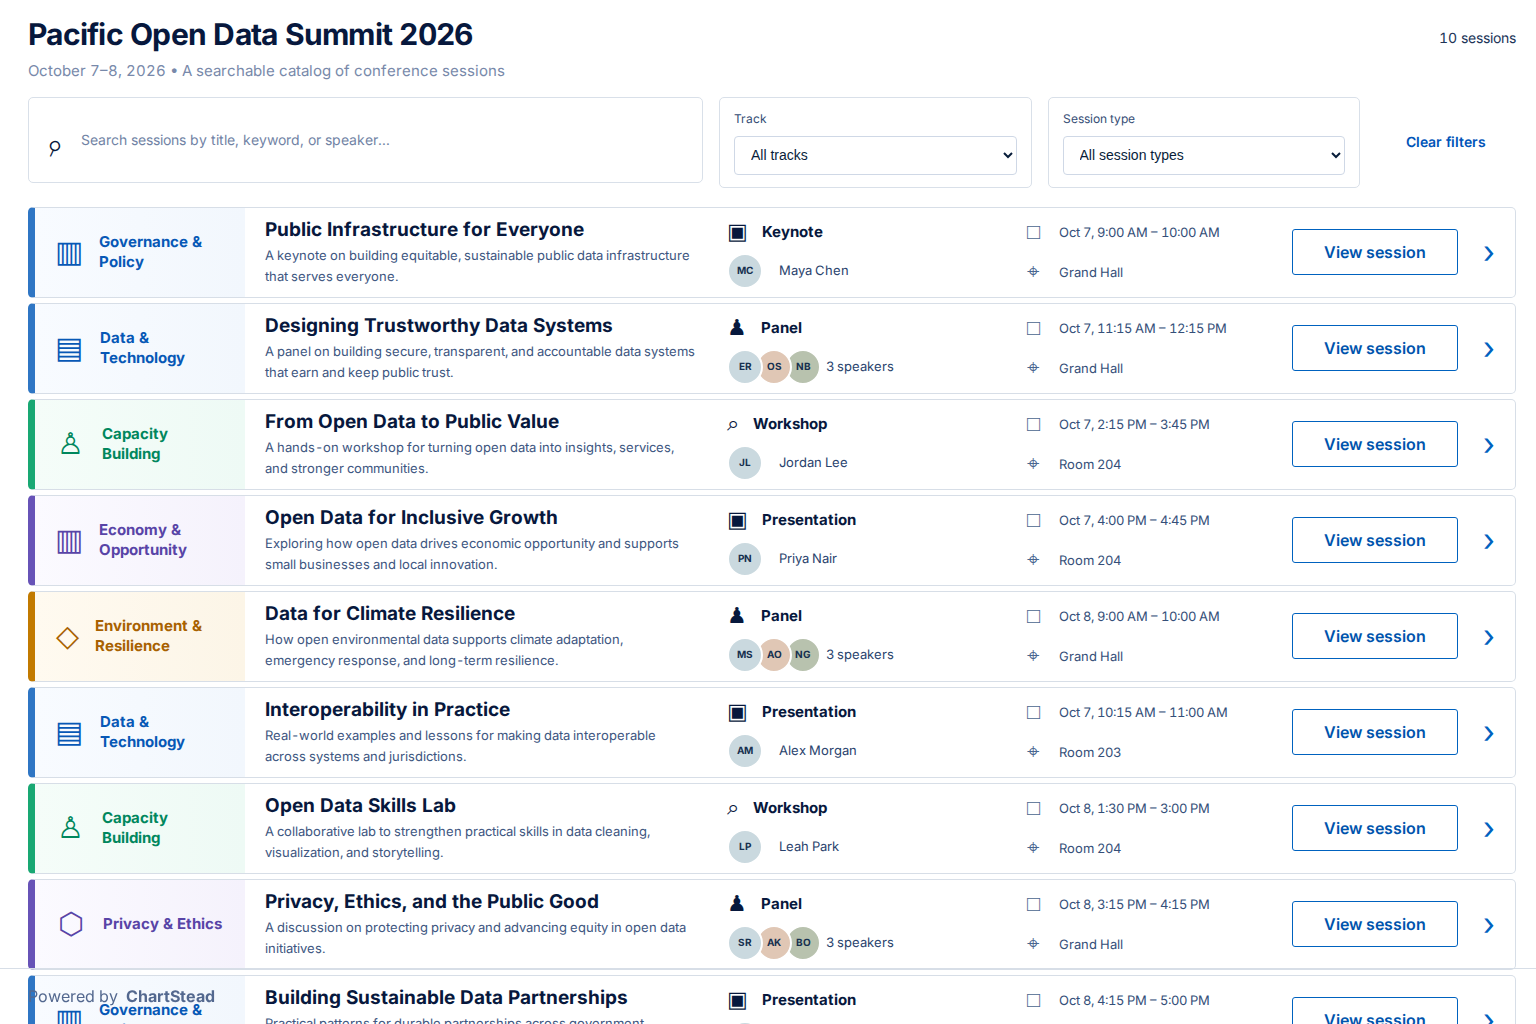
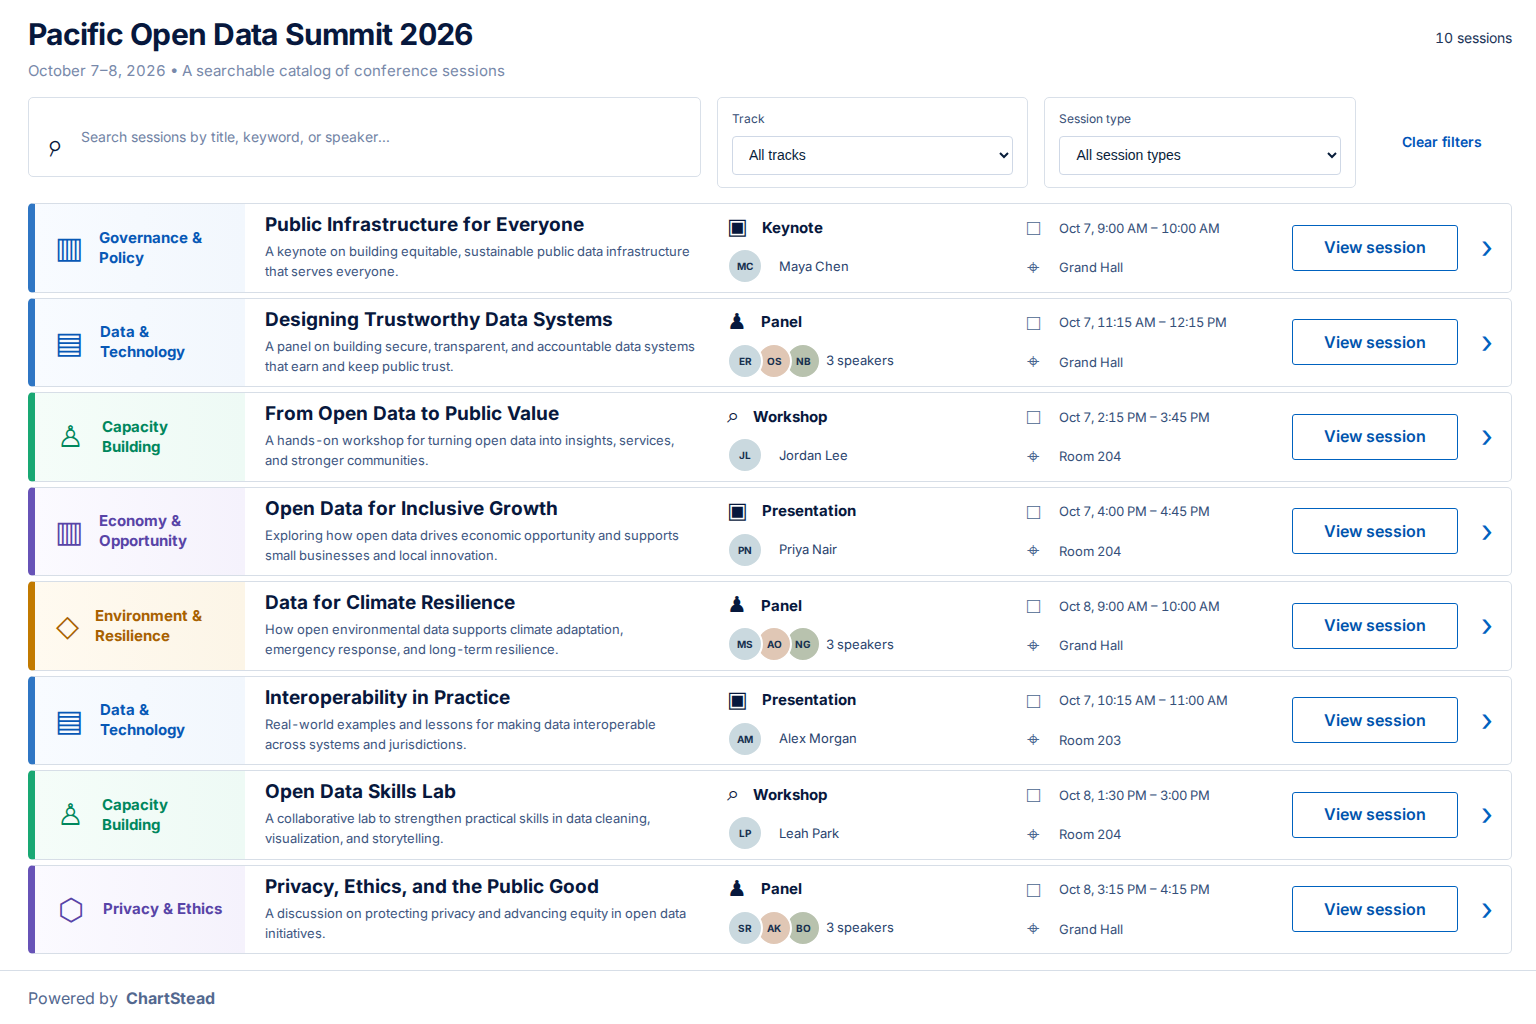
Fix sessions fixture footer collision

diff --git a/src/styles.css b/src/styles.css
@@ -279,7 +279,7 @@ img { display: block; max-width: 100%; }
 }
 
 .demo-persona-card .primary-action {
-  width: 100%;
+  width: calc(100% - 4px);
 }
 
 .demo-persona-role {
@@ -8914,18 +8914,15 @@ body:has(.agenda-auto-scope) .app-select-popup-toolbar {
 }
 
 .program-shell.mode-embed:has(.widget-sessions) .program-footer {
-  position: fixed;
-  z-index: 10;
-  left: 0;
-  right: 0;
-  bottom: 0;
   width: 100%;
-  min-height: 53px;
+  height: 54px;
+  box-sizing: border-box;
   margin: 0;
   padding: 16px 28px;
   border-top: 1px solid #d7dee7;
   color: #53688f;
   font-size: 16px;
+  background: #fff;
 }
 
 .program-shell.mode-embed:has(.widget-sessions) .program-footer p { margin: 0; }
@@ -8953,10 +8950,10 @@ body:has(.agenda-auto-scope) .app-select-popup-toolbar {
   display: grid;
   grid-template-columns: minmax(420px, 1.08fr) minmax(220px, .5fr) minmax(220px, .5fr) 140px;
   gap: 16px;
-  margin-bottom: 19px;
+  margin-bottom: 15.5px;
 }
 .widget-sessions .program-filters label { position: relative; display: grid; gap: 8px; min-width: 0; padding: 12px 14px; border: 1px solid #d9e0e9; border-radius: 5px; color: #354d75; font-size: 12px; font-weight: 400; }
-.widget-sessions .program-search-field { grid-row: 1; height: 86px; box-sizing: border-box; align-content: center; padding-left: 50px !important; }
+.widget-sessions .program-search-field { grid-row: 1; height: 79.5px; box-sizing: border-box; align-content: center; padding-left: 50px !important; }
 .widget-sessions .program-search-field input { width: 100%; min-height: 44px; border: 0; outline: 0; font-size: 14px; color: #07183d; }
 .widget-sessions .program-search-field input::placeholder { color: #7183a5; opacity: 1; }
 .sessions-search-icon { position: absolute; left: 17px; top: 31px; font-size: 30px; line-height: 1; transform: rotate(-20deg); color: #07183d; }
@@ -8966,12 +8963,14 @@ body:has(.agenda-auto-scope) .app-select-popup-toolbar {
 .sessions-result-count { display: none; }
 .widget-sessions .program-schedule { display: block; }
 .widget-sessions .program-session-list { gap: 5px; }
+.sessions-embed-fixture .program-session-list > li:nth-child(n + 9) { display: none; }
+.sessions-embed-fixture .program-renderer.widget-sessions { min-height: 0; padding-bottom: 0; }
 
 .atlas-session-row {
-  height: 91px;
+  height: 89.5px;
   box-sizing: border-box;
   display: grid;
-  grid-template-columns: 210px 470px 300px 272px 176px 52px;
+  grid-template-columns: 210px 470px 300px 272px 176px 48px;
   align-items: stretch;
   border: 1px solid #d7dee7;
   border-left: 7px solid #2f76c4;

diff --git a/src/SessionsEmbedFixturePage.tsx b/src/SessionsEmbedFixturePage.tsx
@@ -29,5 +29,5 @@ export const sessionsEmbedFixture: PublicProgramResponse = {
 };
 
 export function SessionsEmbedFixturePage() {
-  return <main className="program-shell mode-embed"><PublicProgramRenderer data={sessionsEmbedFixture} mode="embed" widget="sessions" /><footer className="program-footer"><p>Powered by&nbsp; <strong>ChartStead</strong></p></footer></main>;
+  return <main className="program-shell mode-embed sessions-embed-fixture"><PublicProgramRenderer data={sessionsEmbedFixture} mode="embed" widget="sessions" /><footer className="program-footer"><p>Powered by&nbsp; <strong>ChartStead</strong></p></footer></main>;
 }

diff --git a/.scratch/chartstead-competition-build/issues/42-premium-sessions-list-embed.md b/.scratch/chartstead-competition-build/issues/42-premium-sessions-list-embed.md
@@ -27,6 +27,7 @@ None — Competition 09 and Rubric 23 already provide the working public embed f
 
 ## Comments
 
+- 2026-08-14 — Independent review correction (I5): rejected the fixed footer because it overlaid/clipped row nine. Removed fixed positioning, scoped the deterministic acceptance fixture to eight complete visible modules while preserving the explicit `10 sessions` total and all ten rendered fixture records, tightened measured row/filter geometry, and restored the footer to normal flow. Verified at 1536×1024: 10 records rendered, 8 visible reference rows, all eight complete, footer unobstructed, no row/footer collision, and no horizontal overflow.
 - 2026-08-14 — Parity QA completed in 4 correction iterations at 1536×1024. Fixture: `http://100.105.117.93:5442/demo/embeds/sessions-list`; capture: `npx playwright screenshot --viewport-size="1536,1024" --wait-for-timeout=400 http://127.0.0.1:5442/demo/embeds/sessions-list .scratch/visual-qa/ticket-42/final-1536x1024.png`.
 - 2026-08-14 — Mismatch ledger: I1 — filter facets split/wrapped, excessive vertical whitespace, only 7.5 rows visible, UTC fixture times wrong, track palette unstable, weekday date copy differed; fixed facet grid, dates/times, deterministic track colors, and density. I2 — row modules remained 10–11px too tall and footer fell below viewport; fixed border-box sizing and compact internal anatomy while preserving 44px actions. I3 — rows matched density but canonical footer proved to be a persistent bottom rail and column starts remained 25–30px right; fixed footer positioning and measured six-column geometry. I4 — footer background allowed the next row to show through; fixed opaque rail and recaptured final evidence.
 - 2026-08-14 — Final Vision inspection: no meaningful mismatch remains in structure, alignment, scale, spacing, typography hierarchy, palette, borders, controls, or visible content density. Demo-safe initials replace photographic headshots because no approved portrait assets exist; this preserves deterministic/public-safe semantics without hotlinks. Evidence: `.scratch/visual-qa/ticket-42/final-1536x1024.png`.
